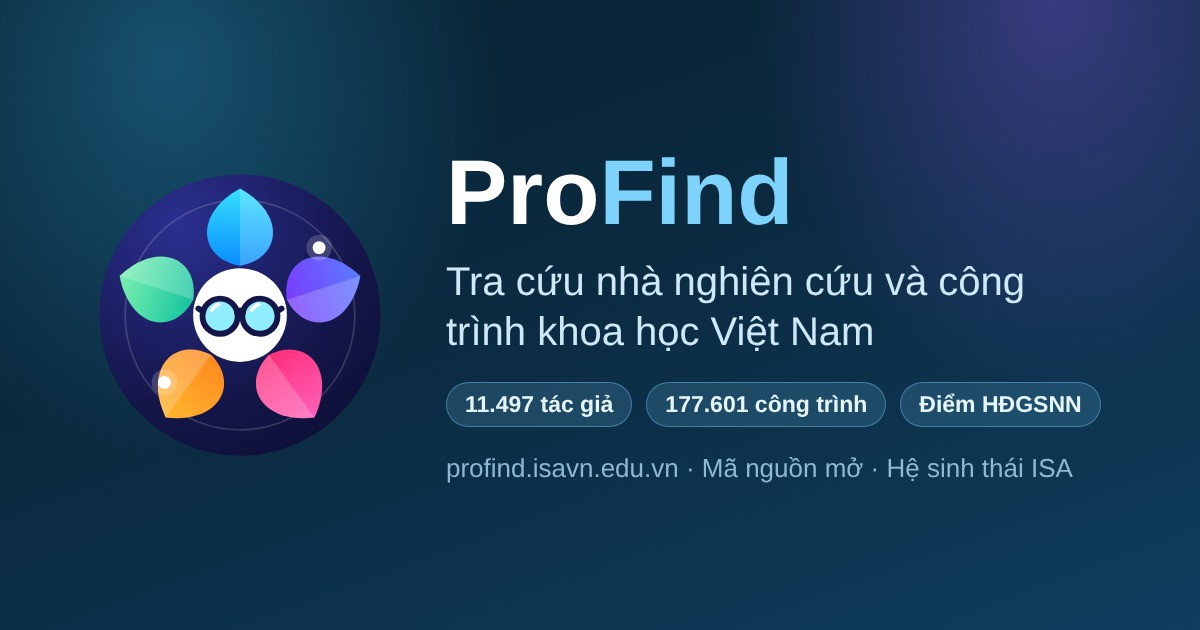
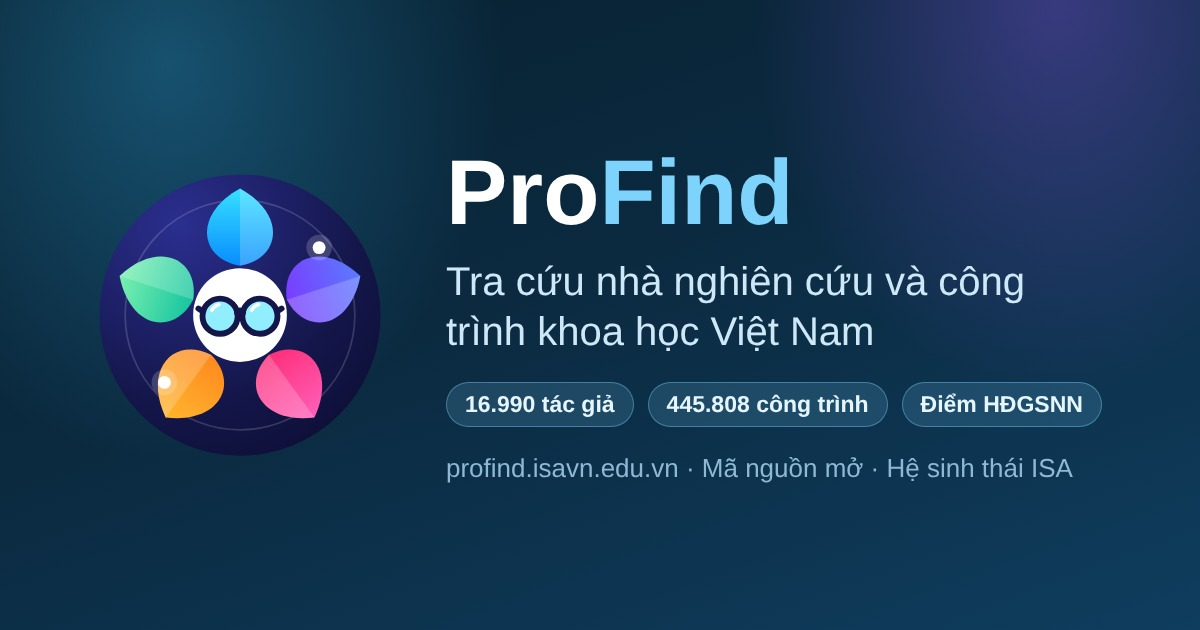
SEO/ảnh xem trước: cập nhật og.jpg theo số liệu hiện hành; số liệu meta/JSON-LD/sitemap lấy từ dữ liệu khi build; tự dựng lại og.jpg trong refresh
Claude-Session: https://claude.ai/code/session_01SSbQJ2VZXKT8EEMx3Wxyv7

Changed region(s): [[0.4008, 0.6032, 0.925, 0.6635]]

diff --git a/index.html b/index.html
@@ -4,7 +4,7 @@
     <meta charset="UTF-8" />
     <meta name="viewport" content="width=device-width, initial-scale=1, viewport-fit=cover" />
     <title>ProFind: Tra cứu nhà nghiên cứu và công trình khoa học của các trường, viện Việt Nam</title>
-    <meta name="description" content="Tra cứu hơn 12.000 nhà nghiên cứu gắn với các trường đại học, học viện, viện nghiên cứu Việt Nam theo ngành, đơn vị, công trình, tạp chí, ISSN, DOI và chỉ số PRO-SCORE1000. Miễn phí, mã nguồn mở, thuộc hệ sinh thái ISA." />
+    <meta name="description" content="Tra cứu hơn %AUTHORS_K% nhà nghiên cứu gắn với các trường đại học, học viện, viện nghiên cứu Việt Nam theo ngành, đơn vị, công trình, tạp chí, ISSN, DOI và chỉ số PRO-SCORE1000. Miễn phí, mã nguồn mở, thuộc hệ sinh thái ISA." />
     <meta name="keywords" content="tra cứu nhà nghiên cứu Việt Nam, tra cứu tác giả, công trình khoa học, bài báo khoa học, PRO-SCORE1000, ISSN, DOI, ORCID, Scopus, tạp chí khoa học, giảng viên đại học, ProFind, EduFind, ISA Vietnam" />
     <meta name="robots" content="index, follow, max-image-preview:large, max-snippet:-1" />
     <meta name="author" content="Lương Việt Hoàng, ISA Vietnam" />
@@ -20,13 +20,13 @@
     <meta property="og:site_name" content="ProFind" /><meta property="og:type" content="website" /><meta property="og:locale" content="vi_VN" /><meta property="og:locale:alternate" content="en_US" />
     <meta property="og:url" content="https://profind.isavn.edu.vn/" />
     <meta property="og:title" content="ProFind: Tra cứu nhà nghiên cứu và công trình khoa học của các trường, viện Việt Nam" />
-    <meta property="og:description" content="Tra cứu hơn 12.000 nhà nghiên cứu gắn với các trường đại học, học viện, viện nghiên cứu Việt Nam theo ngành, đơn vị, công trình, tạp chí, ISSN, DOI và chỉ số PRO-SCORE1000. Miễn phí, mã nguồn mở, thuộc hệ sinh thái ISA." />
-    <meta property="og:image" content="https://profind.isavn.edu.vn/og.jpg" /><meta property="og:image:secure_url" content="https://profind.isavn.edu.vn/og.jpg" /><meta property="og:image:type" content="image/jpeg" /><meta property="og:image:width" content="1200" /><meta property="og:image:height" content="630" /><meta property="og:image:alt" content="ProFind: tra cứu nhà nghiên cứu và công trình khoa học Việt Nam, hơn 11.000 tác giả, 177.000 công trình" />
-    <meta name="twitter:description" content="Tra cứu hơn 12.000 nhà nghiên cứu gắn với các trường đại học, học viện, viện nghiên cứu Việt Nam theo ngành, đơn vị, công trình, tạp chí, ISSN, DOI và chỉ số PRO-SCORE1000. Miễn phí, mã nguồn mở, thuộc hệ sinh thái ISA." /><meta name="twitter:image:alt" content="ProFind: tra cứu nhà nghiên cứu và công trình khoa học Việt Nam" /><meta name="twitter:card" content="summary_large_image" /><meta name="twitter:title" content="ProFind: Tra cứu nhà nghiên cứu và công trình khoa học của các trường, viện Việt Nam" /><meta name="twitter:image" content="https://profind.isavn.edu.vn/og.jpg" />
-    <script type="application/ld+json">{"@context":"https://schema.org","@graph":[{"@type":"WebSite","@id":"https://profind.isavn.edu.vn/#site","name":"ProFind","alternateName":"ProFind - Tra cứu nhà nghiên cứu của các trường, viện Việt Nam","url":"https://profind.isavn.edu.vn/","inLanguage":["vi","en"],"description":"Tra cứu hơn 12.000 nhà nghiên cứu gắn với các trường đại học, học viện, viện nghiên cứu Việt Nam theo ngành, đơn vị, công trình, tạp chí, ISSN, DOI và chỉ số PRO-SCORE1000. Miễn phí, mã nguồn mở, thuộc hệ sinh thái ISA.","publisher":{"@id":"https://isavn.edu.vn/#org"}},{"@type":"Organization","@id":"https://isavn.edu.vn/#org","name":"ISA Vietnam","url":"https://isavn.edu.vn/","logo":"https://profind.isavn.edu.vn/icon-512.png"},{"@type":"Dataset","name":"ProFind: dữ liệu nhà nghiên cứu và công trình khoa học của các trường, viện Việt Nam","description":"Danh bạ nhà nghiên cứu gắn với các trường, viện Việt Nam theo ngành, đơn vị, công trình, tạp chí và chỉ số PRO-SCORE1000, tổng hợp từ OpenAlex (CC0).","url":"https://profind.isavn.edu.vn/","license":"https://creativecommons.org/licenses/by/4.0/","creator":{"@type":"Person","name":"Lương Việt Hoàng"},"inLanguage":"vi","isAccessibleForFree":true,"keywords":["nhà nghiên cứu Việt Nam","công trình khoa học","PRO-SCORE1000","ISSN","DOI"]}]}</script>
+    <meta property="og:description" content="Tra cứu hơn %AUTHORS_K% nhà nghiên cứu gắn với các trường đại học, học viện, viện nghiên cứu Việt Nam theo ngành, đơn vị, công trình, tạp chí, ISSN, DOI và chỉ số PRO-SCORE1000. Miễn phí, mã nguồn mở, thuộc hệ sinh thái ISA." />
+    <meta property="og:image" content="https://profind.isavn.edu.vn/og.jpg?v=%BUILT%" /><meta property="og:image:secure_url" content="https://profind.isavn.edu.vn/og.jpg?v=%BUILT%" /><meta property="og:image:type" content="image/jpeg" /><meta property="og:image:width" content="1200" /><meta property="og:image:height" content="630" /><meta property="og:image:alt" content="ProFind: tra cứu nhà nghiên cứu và công trình khoa học Việt Nam, %AUTHORS_N% tác giả, %WORKS_N% công trình" />
+    <meta name="twitter:description" content="Tra cứu hơn %AUTHORS_K% nhà nghiên cứu gắn với các trường đại học, học viện, viện nghiên cứu Việt Nam theo ngành, đơn vị, công trình, tạp chí, ISSN, DOI và chỉ số PRO-SCORE1000. Miễn phí, mã nguồn mở, thuộc hệ sinh thái ISA." /><meta name="twitter:image:alt" content="ProFind: tra cứu nhà nghiên cứu và công trình khoa học Việt Nam" /><meta name="twitter:card" content="summary_large_image" /><meta name="twitter:title" content="ProFind: Tra cứu nhà nghiên cứu và công trình khoa học của các trường, viện Việt Nam" /><meta name="twitter:image" content="https://profind.isavn.edu.vn/og.jpg?v=%BUILT%" />
+    <script type="application/ld+json">{"@context":"https://schema.org","@graph":[{"@type":"WebSite","@id":"https://profind.isavn.edu.vn/#site","name":"ProFind","alternateName":"ProFind - Tra cứu nhà nghiên cứu của các trường, viện Việt Nam","url":"https://profind.isavn.edu.vn/","inLanguage":["vi","en"],"description":"Tra cứu hơn %AUTHORS_K% nhà nghiên cứu gắn với các trường đại học, học viện, viện nghiên cứu Việt Nam theo ngành, đơn vị, công trình, tạp chí, ISSN, DOI và chỉ số PRO-SCORE1000. Miễn phí, mã nguồn mở, thuộc hệ sinh thái ISA.","publisher":{"@id":"https://isavn.edu.vn/#org"}},{"@type":"Organization","@id":"https://isavn.edu.vn/#org","name":"ISA Vietnam","url":"https://isavn.edu.vn/","logo":"https://profind.isavn.edu.vn/icon-512.png"},{"@type":"Dataset","name":"ProFind: dữ liệu nhà nghiên cứu và công trình khoa học của các trường, viện Việt Nam","description":"Danh bạ nhà nghiên cứu gắn với các trường, viện Việt Nam theo ngành, đơn vị, công trình, tạp chí và chỉ số PRO-SCORE1000, tổng hợp từ OpenAlex (CC0).","url":"https://profind.isavn.edu.vn/","license":"https://creativecommons.org/licenses/by/4.0/","creator":{"@type":"Person","name":"Lương Việt Hoàng"},"inLanguage":"vi","isAccessibleForFree":true,"dateModified":"%BUILT%","keywords":["nhà nghiên cứu Việt Nam","công trình khoa học","PRO-SCORE1000","ISSN","DOI"]}]}</script>
   </head>
   <body>
     <noscript><p style="padding:24px;font-family:system-ui,sans-serif">ProFind cần JavaScript để hiển thị danh sách tác giả. Vui lòng bật JavaScript. / ProFind needs JavaScript to show the list of researchers. Please enable JavaScript.</p></noscript>
-    <div id="root"><div style="padding:24px;font-family:system-ui,sans-serif;max-width:720px"><h1>ProFind: Dữ liệu số về Nhà khoa học &amp; công trình nghiên cứu</h1><p>Tra cứu hơn 12.000 nhà nghiên cứu gắn với các trường đại học, học viện, viện nghiên cứu Việt Nam theo ngành, đơn vị, công trình, tạp chí, ISSN, DOI và chỉ số PRO-SCORE1000. Miễn phí, mã nguồn mở, thuộc hệ sinh thái ISA.</p><p>Tìm theo tên, ORCID, tên tạp chí hoặc ISSN; lọc theo ngành và trường đại học; xem danh sách bài báo kèm liên kết DOI.</p></div></div><script type="module" src="/src/main.tsx"></script>
+    <div id="root"><div style="padding:24px;font-family:system-ui,sans-serif;max-width:720px"><h1>ProFind: Dữ liệu số về Nhà khoa học &amp; công trình nghiên cứu</h1><p>Tra cứu hơn %AUTHORS_K% nhà nghiên cứu gắn với các trường đại học, học viện, viện nghiên cứu Việt Nam theo ngành, đơn vị, công trình, tạp chí, ISSN, DOI và chỉ số PRO-SCORE1000. Miễn phí, mã nguồn mở, thuộc hệ sinh thái ISA.</p><p>Tìm theo tên, ORCID, tên tạp chí hoặc ISSN; lọc theo ngành và trường đại học; xem danh sách bài báo kèm liên kết DOI.</p></div></div><script type="module" src="/src/main.tsx"></script>
   </body>
 </html>

diff --git a/src/i18n.ts b/src/i18n.ts
@@ -3,7 +3,7 @@ export type Lang = "vi" | "en";
 export const KEY = "edufind.lang"; // dùng chung với EduFind (cùng ngôn ngữ khi chuyển ứng dụng trong hệ sinh thái)
 const vi = {
   title: "ProFind", sub: "Dữ liệu số về Nhà khoa học & công trình nghiên cứu", tagline: "Ngành · Đơn vị · Công trình · Tạp chí · ISSN · PRO-SCORE1000",
-  docTitle: "ProFind: Tra cứu nhà nghiên cứu và công trình khoa học của các trường, viện Việt Nam", metaDesc: "Tra cứu hơn 12.000 nhà nghiên cứu gắn với các trường đại học, học viện, viện nghiên cứu Việt Nam theo ngành, đơn vị, công trình, tạp chí, ISSN, DOI và chỉ số PRO-SCORE1000. Miễn phí, mã nguồn mở.",
+  docTitle: "ProFind: Tra cứu nhà nghiên cứu và công trình khoa học của các trường, viện Việt Nam", metaDesc: "Tra cứu hơn {k} nhà nghiên cứu gắn với các trường đại học, học viện, viện nghiên cứu Việt Nam theo ngành, đơn vị, công trình, tạp chí, ISSN, DOI và chỉ số PRO-SCORE1000. Miễn phí, mã nguồn mở.",
   skip: "Bỏ qua, tới nội dung chính", langLabel: "Ngôn ngữ", langVi: "Tiếng Việt", langEn: "English",
   demo: "DỮ LIỆU MẪU: tác giả và công trình là hư cấu, chỉ để chạy thử giao diện.",
   sfWho: "Tác giả", sfCopy: "Bản quyền mở, sử dụng miễn phí có trách nhiệm.", sfLegal: "Bản quyền và miễn trừ trách nhiệm", sfDisc: "Dữ liệu tổng hợp từ nguồn công khai (OpenAlex, CC0); PRO-SCORE1000 và thứ hạng chỉ mang tính tham khảo, không thay thế đánh giá chính thức của bất kỳ hội đồng nào và không nên là tiêu chí duy nhất trong tuyển dụng, xét duyệt, bổ nhiệm hay phân bổ nguồn lực. Nhà nghiên cứu có thể đính chính, ẩn điểm hoặc đề nghị gỡ hồ sơ.", notRankShort: "PRO-SCORE1000 là chỉ số tham khảo của ProFind, không phải xếp hạng chính thức.", details: "Chi tiết",
@@ -31,7 +31,7 @@ const vi = {
 };
 const en: typeof vi = {
   title: "ProFind", sub: "Digital data on scientists & research works", tagline: "Field · Institution · Works · Journal · ISSN · PRO-SCORE1000",
-  docTitle: "ProFind: Find researchers and publications of Vietnamese universities and institutes", metaDesc: "ProFind: find 12,000+ researchers affiliated with Vietnamese universities, academies and research institutes by field, institution, works, journal, ISSN and the PRO-SCORE1000 index. Open source, part of the ISA ecosystem.",
+  docTitle: "ProFind: Find researchers and publications of Vietnamese universities and institutes", metaDesc: "ProFind: find {k}+ researchers affiliated with Vietnamese universities, academies and research institutes by field, institution, works, journal, ISSN and the PRO-SCORE1000 index. Open source, part of the ISA ecosystem.",
   skip: "Skip to main content", langLabel: "Language", langVi: "Tiếng Việt", langEn: "English",
   demo: "SAMPLE DATA: authors and works are fictional, for interface testing only.",
   sfWho: "Author", sfCopy: "Open copyright: free to use, responsibly.", sfLegal: "Copyright and disclaimer", sfDisc: "Data compiled from public sources (OpenAlex, CC0); PRO-SCORE1000 and rankings are for reference only, do not replace any official evaluation and should not be the sole criterion in hiring, review, appointment or resource allocation. Researchers may correct, hide the score or request removal of their profile.", notRankShort: "PRO-SCORE1000 is ProFind’s reference index, not an official ranking.", details: "Details",

diff --git a/vite.config.ts b/vite.config.ts
@@ -1,3 +1,17 @@
-import { defineConfig } from "vite";
+import { defineConfig, type Plugin } from "vite";
 import react from "@vitejs/plugin-react";
-export default defineConfig({ plugins: [react()], base: "./" });
+import { readFileSync } from "node:fs";
+// Số liệu trong thẻ meta / JSON-LD / sơ đồ trang luôn lấy từ dữ liệu hiện hành (public/data/profind.json), không gõ tay.
+const SITE = "https://profind.isavn.edu.vn";
+const seoMeta = (): Plugin => {
+  const M = (() => { try { return JSON.parse(readFileSync("public/data/profind.json", "utf8")).meta; } catch { return null; } })();
+  const vn = (n: number) => n.toLocaleString("vi-VN");
+  return {
+    name: "profind-seo-meta",
+    transformIndexHtml: (html) => !M ? html : html.replaceAll("%AUTHORS_K%", vn(Math.floor(M.authors / 1000) * 1000)).replaceAll("%AUTHORS_N%", vn(M.authors)).replaceAll("%WORKS_N%", vn(M.works)).replaceAll("%BUILT%", String(M.built ?? "")),
+    generateBundle() {
+      this.emitFile({ type: "asset", fileName: "sitemap.xml", source: `<?xml version="1.0" encoding="UTF-8"?>\n<urlset xmlns="http://www.sitemaps.org/schemas/sitemap/0.9"><url><loc>${SITE}/</loc><lastmod>${M?.built ?? new Date().toISOString().slice(0, 10)}</lastmod><changefreq>weekly</changefreq><priority>1.0</priority></url></urlset>\n` });
+    },
+  };
+};
+export default defineConfig({ plugins: [react(), seoMeta()], base: "./" });

diff --git a/src/App.tsx b/src/App.tsx
@@ -103,7 +103,8 @@ function AppInner() {
   // Tiêu đề tab, mô tả và đưa tiêu điểm về nội dung chính khi đổi trang (trình đọc màn hình biết đã chuyển trang).
   useEffect(() => {
     document.title = view === "lb" ? `${lang === "vi" ? "Bảng xếp hạng" : "Leaderboard"} | ProFind` : view === "pro" ? "PRO-SCORE1000 | ProFind" : view === "about" ? `${t("fAbout2")} | ProFind` : view === "acc" ? `${t("accTitle")} | ProFind` : view === "adm" ? "Quản trị | ProFind" : view === "author" && author ? `${author.name} | ProFind` : view === "corr" ? `${t("corrTitle")} | ProFind` : view === "nf" ? `${t("notFound").split(".")[0]} | ProFind` : t("docTitle");
-    document.querySelector('meta[name="description"]')?.setAttribute("content", t("metaDesc"));
+    const k = data?.meta?.authors ? Math.floor(data.meta.authors / 1000) * 1000 : 0; // số tác giả làm tròn xuống nghìn, luôn theo dữ liệu hiện hành
+    document.querySelector('meta[name="description"]')?.setAttribute("content", t("metaDesc").replace("{k}", k.toLocaleString(lang === "vi" ? "vi-VN" : "en-US")));
     if (first.current) { first.current = false; return; }
     scrollTo(0, 0); mainRef.current?.focus({ preventScroll: true });
   }, [view, author?.id, lang]); // eslint-disable-line react-hooks/exhaustive-deps
